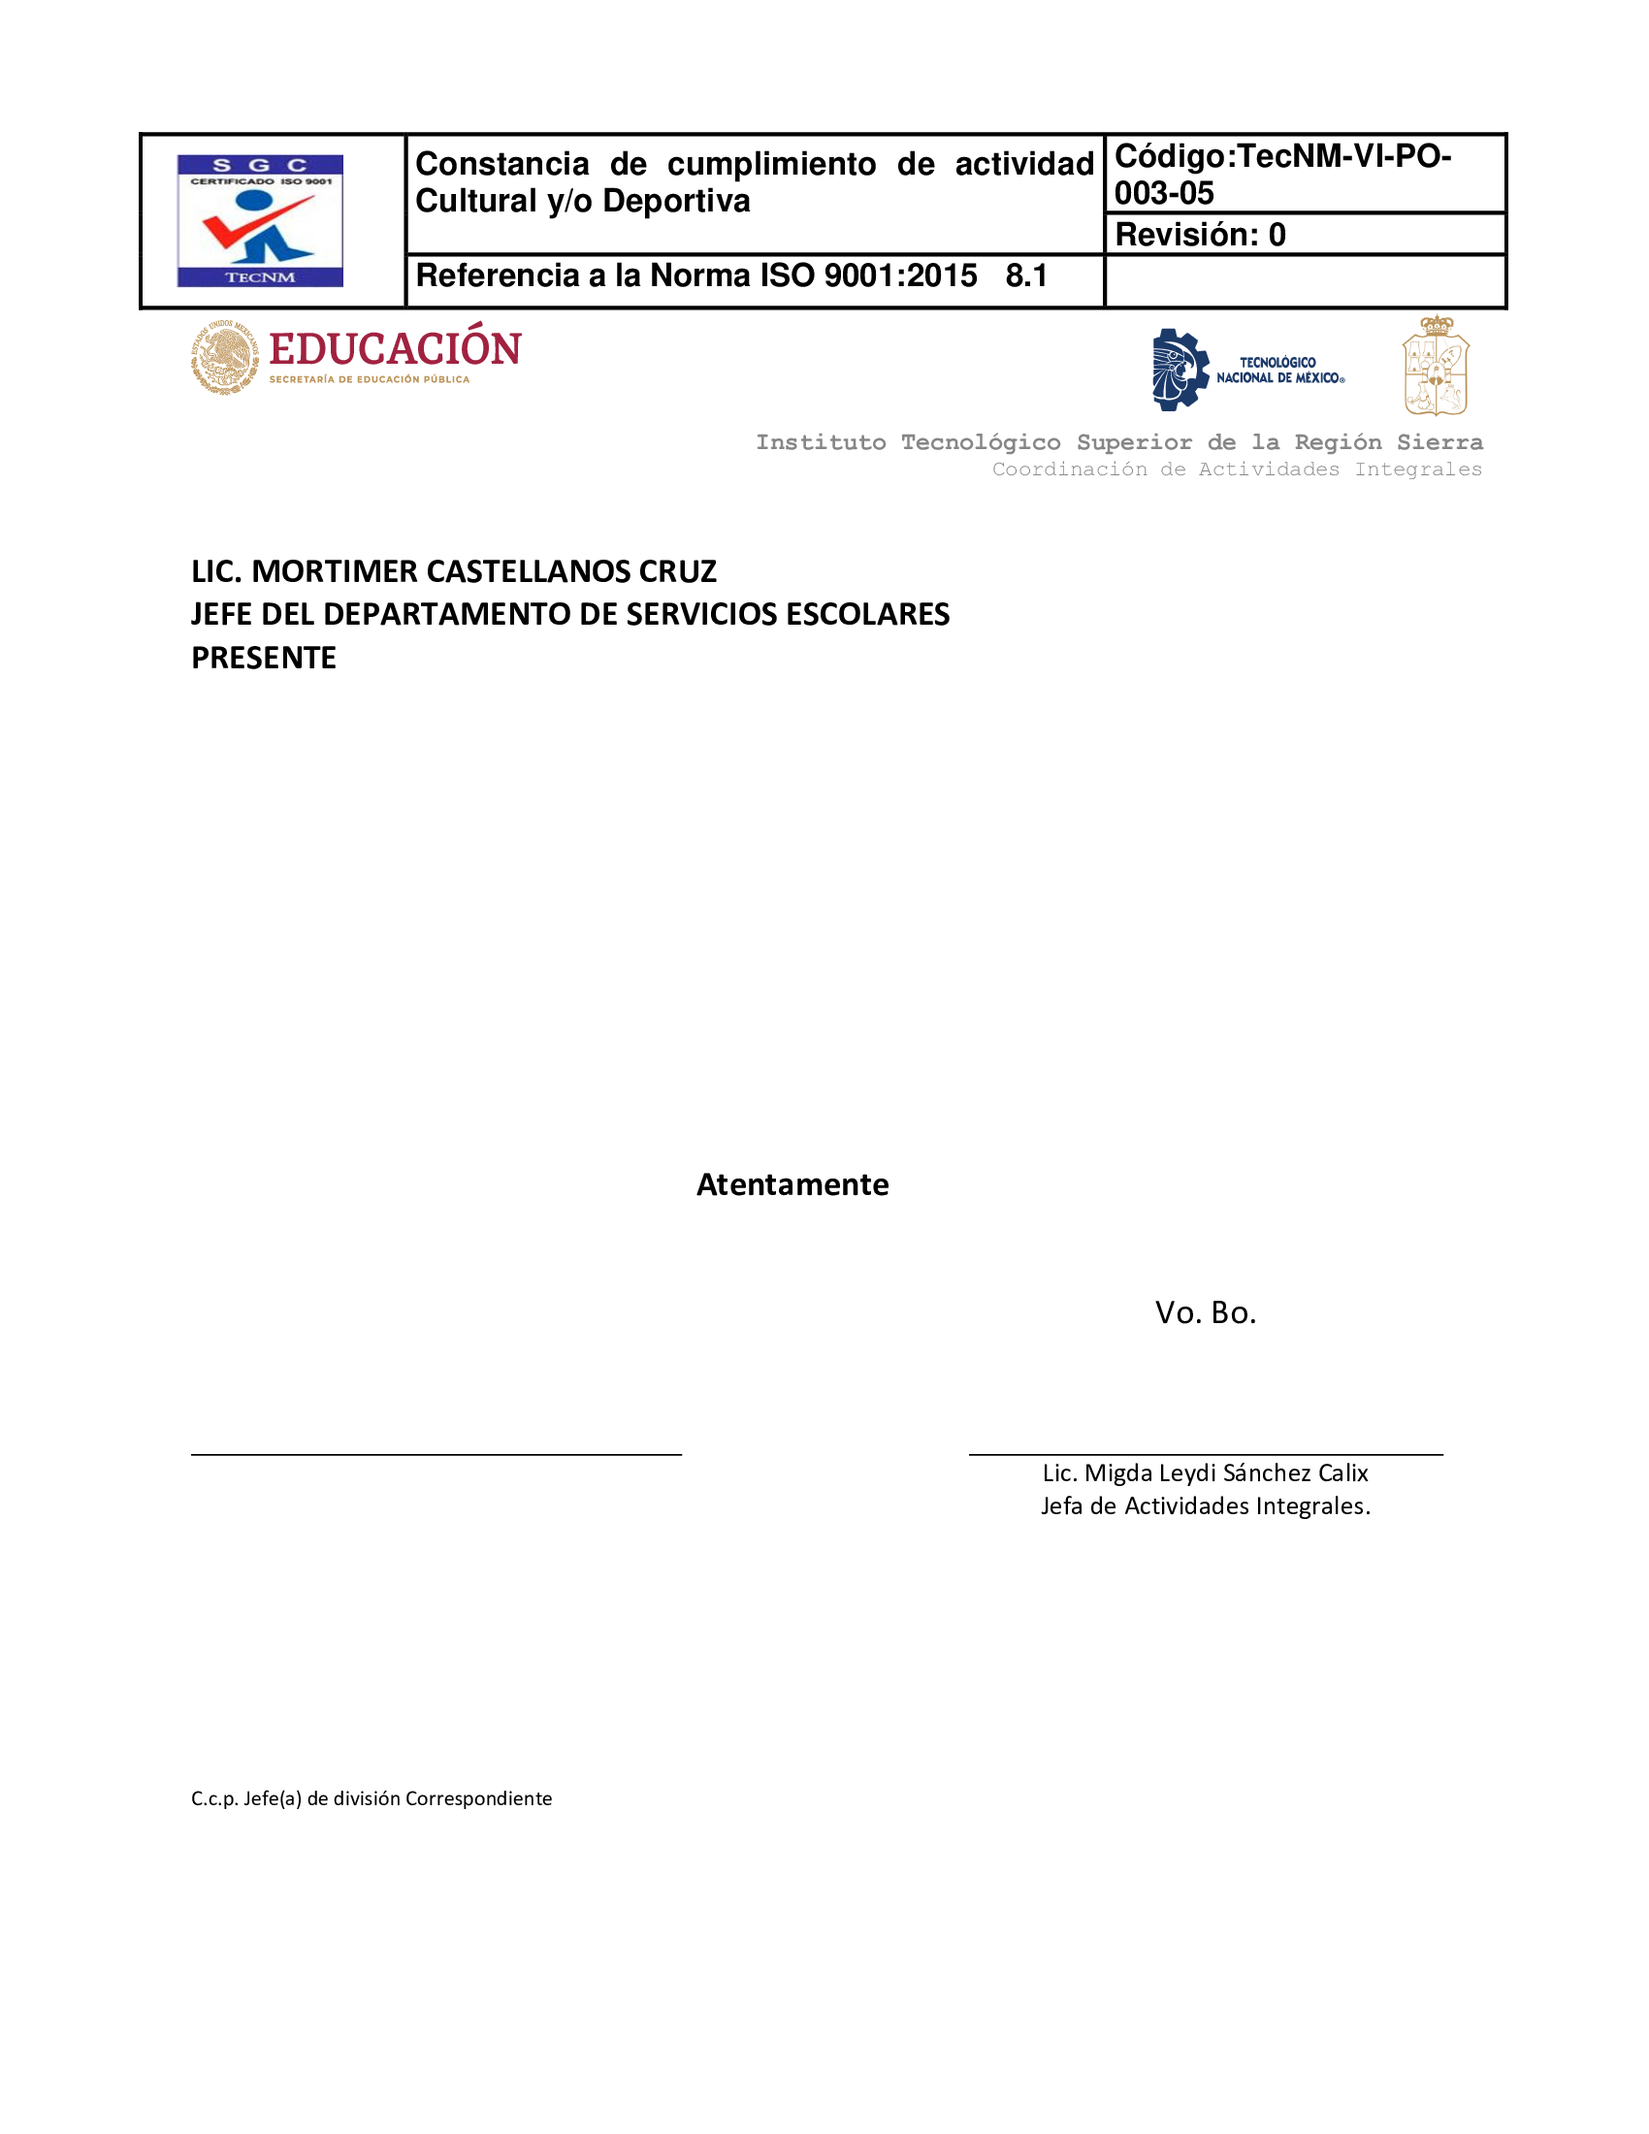
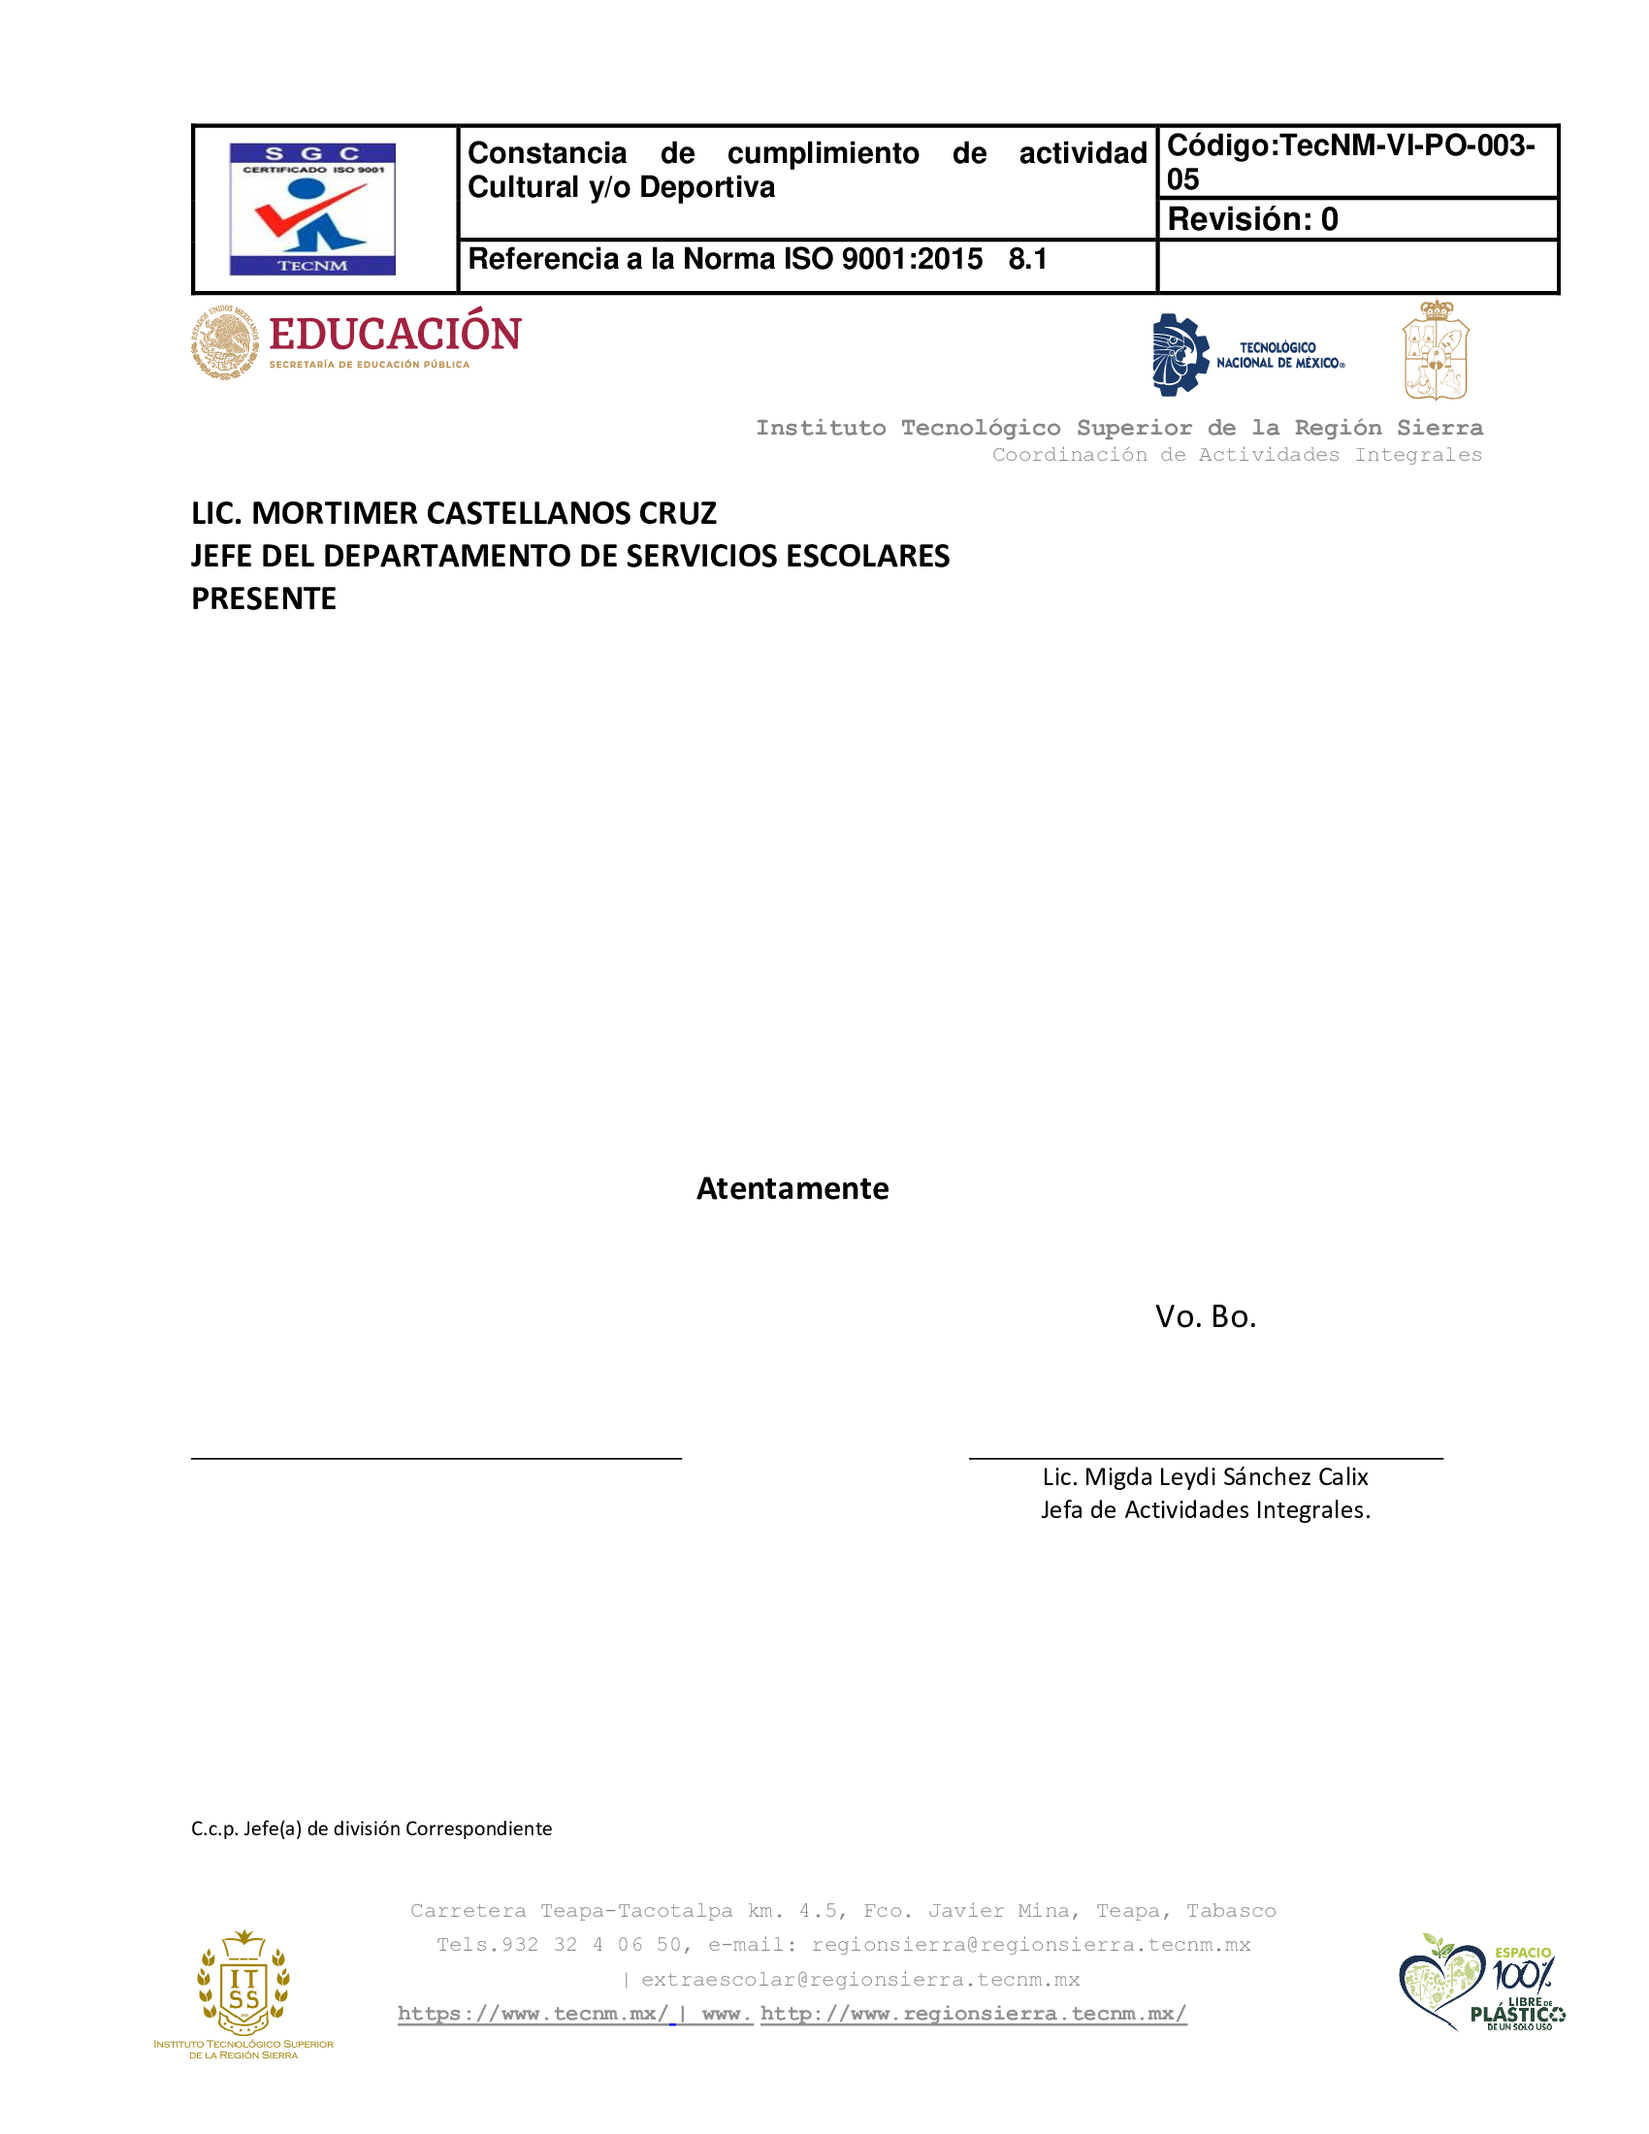
Se actulizo la plantilla para los certificados pdf y se agrego el token. Creacion de la vista para el formato de evalucion de desempeño.

diff --git a/config/dompdf.php b/config/dompdf.php
@@ -1,0 +1,284 @@
+<?php
+
+return array(
+
+    /*
+    |--------------------------------------------------------------------------
+    | Settings
+    |--------------------------------------------------------------------------
+    |
+    | Set some default values. It is possible to add all defines that can be set
+    | in dompdf_config.inc.php. You can also override the entire config file.
+    |
+    */
+    'show_warnings' => false,   // Throw an Exception on warnings from dompdf
+
+    'public_path' => null,  // Override the public path if needed
+
+    /*
+     * Dejavu Sans font is missing glyphs for converted entities, turn it off if you need to show € and £.
+     */
+    'convert_entities' => true,
+
+    'options' => array(
+        /**
+         * The location of the DOMPDF font directory
+         *
+         * The location of the directory where DOMPDF will store fonts and font metrics
+         * Note: This directory must exist and be writable by the webserver process.
+         * *Please note the trailing slash.*
+         *
+         * Notes regarding fonts:
+         * Additional .afm font metrics can be added by executing load_font.php from command line.
+         *
+         * Only the original "Base 14 fonts" are present on all pdf viewers. Additional fonts must
+         * be embedded in the pdf file or the PDF may not display correctly. This can significantly
+         * increase file size unless font subsetting is enabled. Before embedding a font please
+         * review your rights under the font license.
+         *
+         * Any font specification in the source HTML is translated to the closest font available
+         * in the font directory.
+         *
+         * The pdf standard "Base 14 fonts" are:
+         * Courier, Courier-Bold, Courier-BoldOblique, Courier-Oblique,
+         * Helvetica, Helvetica-Bold, Helvetica-BoldOblique, Helvetica-Oblique,
+         * Times-Roman, Times-Bold, Times-BoldItalic, Times-Italic,
+         * Symbol, ZapfDingbats.
+         */
+        "font_dir" => storage_path('fonts'), // advised by dompdf (https://github.com/dompdf/dompdf/pull/782)
+
+        /**
+         * The location of the DOMPDF font cache directory
+         *
+         * This directory contains the cached font metrics for the fonts used by DOMPDF.
+         * This directory can be the same as DOMPDF_FONT_DIR
+         *
+         * Note: This directory must exist and be writable by the webserver process.
+         */
+        "font_cache" => storage_path('fonts'),
+
+        /**
+         * The location of a temporary directory.
+         *
+         * The directory specified must be writeable by the webserver process.
+         * The temporary directory is required to download remote images and when
+         * using the PFDLib back end.
+         */
+        "temp_dir" => sys_get_temp_dir(),
+
+        /**
+         * ==== IMPORTANT ====
+         *
+         * dompdf's "chroot": Prevents dompdf from accessing system files or other
+         * files on the webserver.  All local files opened by dompdf must be in a
+         * subdirectory of this directory.  DO NOT set it to '/' since this could
+         * allow an attacker to use dompdf to read any files on the server.  This
+         * should be an absolute path.
+         * This is only checked on command line call by dompdf.php, but not by
+         * direct class use like:
+         * $dompdf = new DOMPDF();  $dompdf->load_html($htmldata); $dompdf->render(); $pdfdata = $dompdf->output();
+         */
+        "chroot" => realpath(base_path()),
+
+        /**
+         * Protocol whitelist
+         *
+         * Protocols and PHP wrappers allowed in URIs, and the validation rules
+         * that determine if a resouce may be loaded. Full support is not guaranteed
+         * for the protocols/wrappers specified
+         * by this array.
+         *
+         * @var array
+         */
+        'allowed_protocols' => [
+            "file://" => ["rules" => []],
+            "http://" => ["rules" => []],
+            "https://" => ["rules" => []]
+        ],
+
+         /**
+          * @var string
+          */
+        'log_output_file' => null,
+
+        /**
+         * Whether to enable font subsetting or not.
+         */
+        "enable_font_subsetting" => false,
+
+        /**
+         * The PDF rendering backend to use
+         *
+         * Valid settings are 'PDFLib', 'CPDF' (the bundled R&OS PDF class), 'GD' and
+         * 'auto'. 'auto' will look for PDFLib and use it if found, or if not it will
+         * fall back on CPDF. 'GD' renders PDFs to graphic files. {@link
+         * Canvas_Factory} ultimately determines which rendering class to instantiate
+         * based on this setting.
+         *
+         * Both PDFLib & CPDF rendering backends provide sufficient rendering
+         * capabilities for dompdf, however additional features (e.g. object,
+         * image and font support, etc.) differ between backends.  Please see
+         * {@link PDFLib_Adapter} for more information on the PDFLib backend
+         * and {@link CPDF_Adapter} and lib/class.pdf.php for more information
+         * on CPDF. Also see the documentation for each backend at the links
+         * below.
+         *
+         * The GD rendering backend is a little different than PDFLib and
+         * CPDF. Several features of CPDF and PDFLib are not supported or do
+         * not make any sense when creating image files.  For example,
+         * multiple pages are not supported, nor are PDF 'objects'.  Have a
+         * look at {@link GD_Adapter} for more information.  GD support is
+         * experimental, so use it at your own risk.
+         *
+         * @link http://www.pdflib.com
+         * @link http://www.ros.co.nz/pdf
+         * @link http://www.php.net/image
+         */
+        "pdf_backend" => "CPDF",
+
+        /**
+         * PDFlib license key
+         *
+         * If you are using a licensed, commercial version of PDFlib, specify
+         * your license key here.  If you are using PDFlib-Lite or are evaluating
+         * the commercial version of PDFlib, comment out this setting.
+         *
+         * @link http://www.pdflib.com
+         *
+         * If pdflib present in web server and auto or selected explicitely above,
+         * a real license code must exist!
+         */
+        //"DOMPDF_PDFLIB_LICENSE" => "your license key here",
+
+        /**
+         * html target media view which should be rendered into pdf.
+         * List of types and parsing rules for future extensions:
+         * http://www.w3.org/TR/REC-html40/types.html
+         *   screen, tty, tv, projection, handheld, print, braille, aural, all
+         * Note: aural is deprecated in CSS 2.1 because it is replaced by speech in CSS 3.
+         * Note, even though the generated pdf file is intended for print output,
+         * the desired content might be different (e.g. screen or projection view of html file).
+         * Therefore allow specification of content here.
+         */
+        "default_media_type" => "screen",
+
+        /**
+         * The default paper size.
+         *
+         * North America standard is "letter"; other countries generally "a4"
+         *
+         * @see CPDF_Adapter::PAPER_SIZES for valid sizes ('letter', 'legal', 'A4', etc.)
+         */
+        "default_paper_size" => "a4",
+
+         /**
+          * The default paper orientation.
+          *
+          * The orientation of the page (portrait or landscape).
+          *
+          * @var string
+          */
+        'default_paper_orientation' => "portrait",
+
+        /**
+         * The default font family
+         *
+         * Used if no suitable fonts can be found. This must exist in the font folder.
+         * @var string
+         */
+        "default_font" => "serif",
+
+        /**
+         * Image DPI setting
+         *
+         * This setting determines the default DPI setting for images and fonts.  The
+         * DPI may be overridden for inline images by explictly setting the
+         * image's width & height style attributes (i.e. if the image's native
+         * width is 600 pixels and you specify the image's width as 72 points,
+         * the image will have a DPI of 600 in the rendered PDF.  The DPI of
+         * background images can not be overridden and is controlled entirely
+         * via this parameter.
+         *
+         * For the purposes of DOMPDF, pixels per inch (PPI) = dots per inch (DPI).
+         * If a size in html is given as px (or without unit as image size),
+         * this tells the corresponding size in pt.
+         * This adjusts the relative sizes to be similar to the rendering of the
+         * html page in a reference browser.
+         *
+         * In pdf, always 1 pt = 1/72 inch
+         *
+         * Rendering resolution of various browsers in px per inch:
+         * Windows Firefox and Internet Explorer:
+         *   SystemControl->Display properties->FontResolution: Default:96, largefonts:120, custom:?
+         * Linux Firefox:
+         *   about:config *resolution: Default:96
+         *   (xorg screen dimension in mm and Desktop font dpi settings are ignored)
+         *
+         * Take care about extra font/image zoom factor of browser.
+         *
+         * In images, <img> size in pixel attribute, img css style, are overriding
+         * the real image dimension in px for rendering.
+         *
+         * @var int
+         */
+        "dpi" => 96,
+
+        /**
+         * Enable inline PHP
+         *
+         * If this setting is set to true then DOMPDF will automatically evaluate
+         * inline PHP contained within <script type="text/php"> ... </script> tags.
+         *
+         * Enabling this for documents you do not trust (e.g. arbitrary remote html
+         * pages) is a security risk.  Set this option to false if you wish to process
+         * untrusted documents.
+         *
+         * @var bool
+         */
+        "enable_php" => false,
+
+        /**
+         * Enable inline Javascript
+         *
+         * If this setting is set to true then DOMPDF will automatically insert
+         * JavaScript code contained within <script type="text/javascript"> ... </script> tags.
+         *
+         * @var bool
+         */
+        "enable_javascript" => true,
+
+        /**
+         * Enable remote file access
+         *
+         * If this setting is set to true, DOMPDF will access remote sites for
+         * images and CSS files as required.
+         * This is required for part of test case www/test/image_variants.html through www/examples.php
+         *
+         * Attention!
+         * This can be a security risk, in particular in combination with DOMPDF_ENABLE_PHP and
+         * allowing remote access to dompdf.php or on allowing remote html code to be passed to
+         * $dompdf = new DOMPDF(, $dompdf->load_html(...,
+         * This allows anonymous users to download legally doubtful internet content which on
+         * tracing back appears to being downloaded by your server, or allows malicious php code
+         * in remote html pages to be executed by your server with your account privileges.
+         *
+         * @var bool
+         */
+        "enable_remote" => true,
+
+        /**
+         * A ratio applied to the fonts height to be more like browsers' line height
+         */
+        "font_height_ratio" => 1.1,
+
+        /**
+         * Use the HTML5 Lib parser
+         *
+         * @deprecated This feature is now always on in dompdf 2.x
+         * @var bool
+         */
+        "enable_html5_parser" => true,
+    ),
+
+
+);

diff --git a/app/Livewire/Admin/Grade.php b/app/Livewire/Admin/Grade.php
@@ -1,0 +1,42 @@
+<?php
+
+namespace App\Livewire\Admin;
+
+use Livewire\Component;
+
+class Grade extends Component
+{
+
+    public function searchDatas()
+	{
+		$this->student = Student::with('activity')
+			->with('activity.teacher')
+			->with('period')
+			->where('validated', true)
+			->where('key', $this->search)
+			->orWhere('validation_token', $this->search)
+			->first();
+	}
+
+    public function downloadPerformance($data)
+	{
+		view()->share('data', $data);
+		$pdf = PDF::loadView('pdf.performance', $data)
+			->setPaper('letter', 'portrait')
+			->output();
+
+		return response()->streamDownload(
+			fn () => print($pdf),
+			"performance.pdf"
+		);
+	}
+
+
+
+
+
+    public function render()
+    {
+        return view('livewire.admin.grade');
+    }
+}

diff --git a/resources/views/pdf/certificate.blade.php b/resources/views/pdf/certificate.blade.php
@@ -77,6 +77,7 @@
 		Se extiende la presente en la ciudad de Teapa Tabasco; con fecha de <strong>{{ $data['validated_at'] }}</strong>.
 	</p>
 	<span class="teacher">{{ $data['activity']['teacher']['name'] }}</span>
+	<p class="token">{{ $data['validation_token'] }}</p>
 </body>
 
 </html>

diff --git a/routes/web.php b/routes/web.php
@@ -24,3 +24,5 @@ Route::get('/students/register', Register::class)->name('students.register');
 
 Route::get('/students/certificate', Certificate::class)->name('students.certificate');
 
+
+

diff --git a/resources/views/livewire/admin/grade.blade.php b/resources/views/livewire/admin/grade.blade.php
@@ -1,0 +1,3 @@
+<div>
+    {{-- To attain knowledge, add things every day; To attain wisdom, subtract things every day. --}}
+</div>
